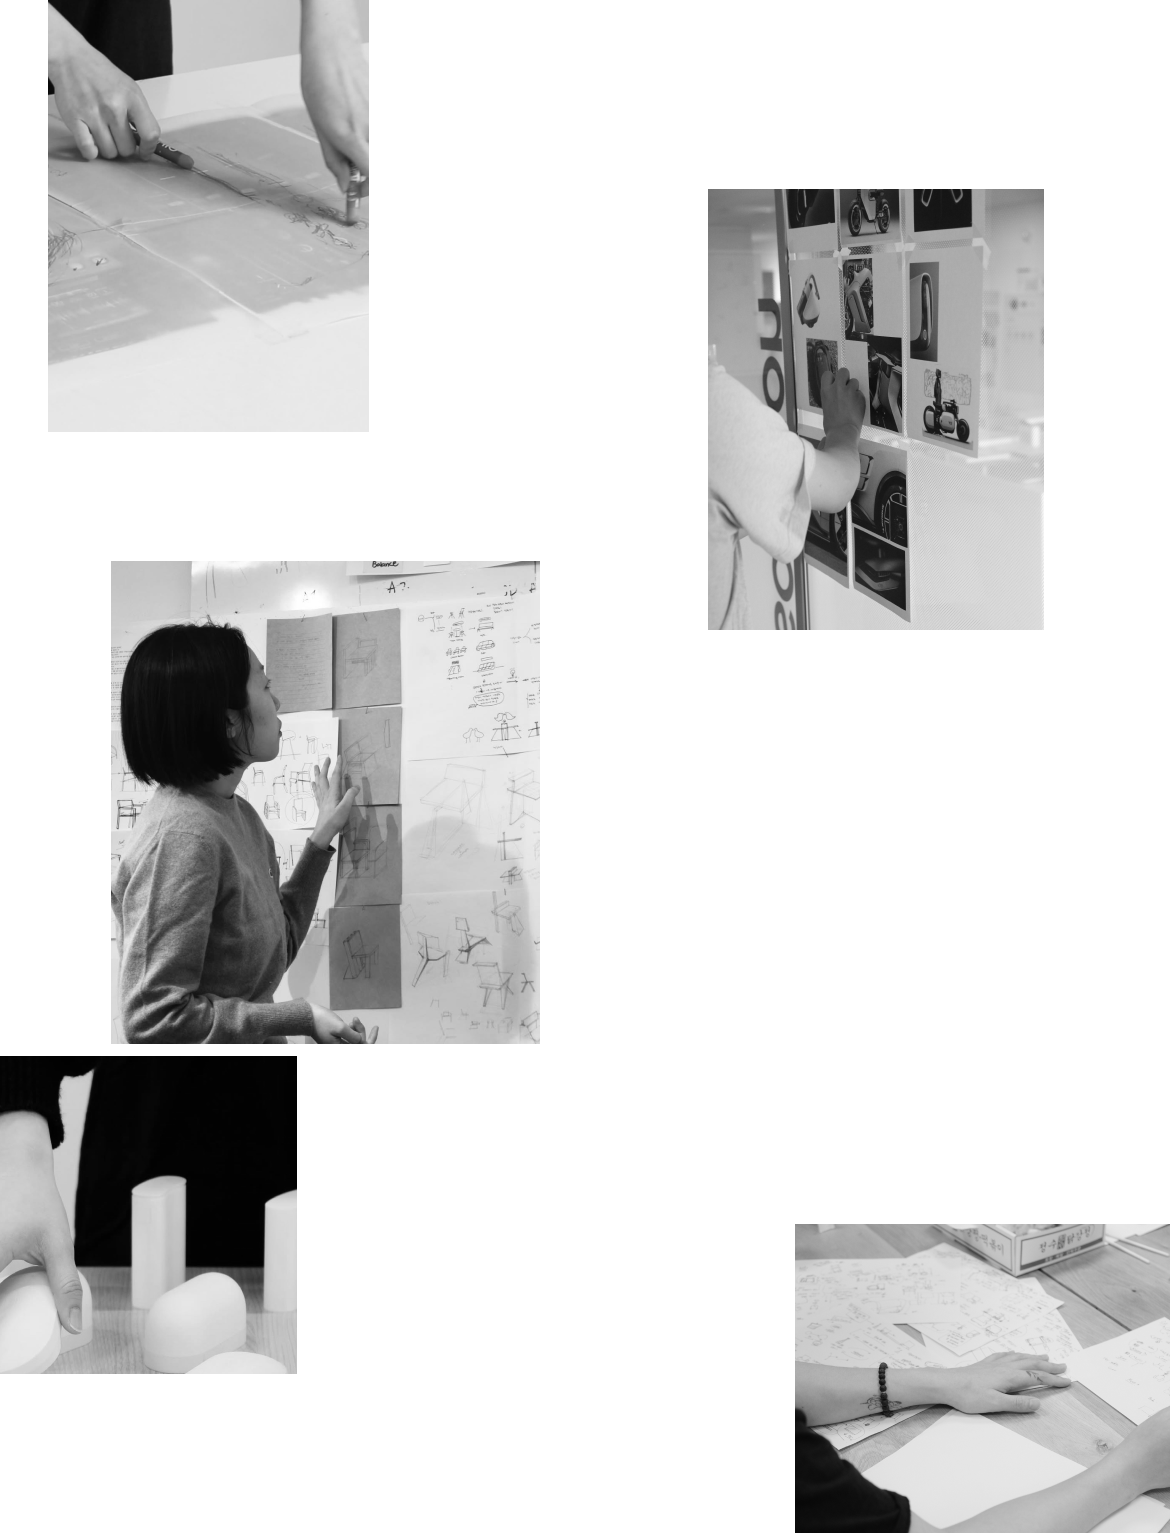
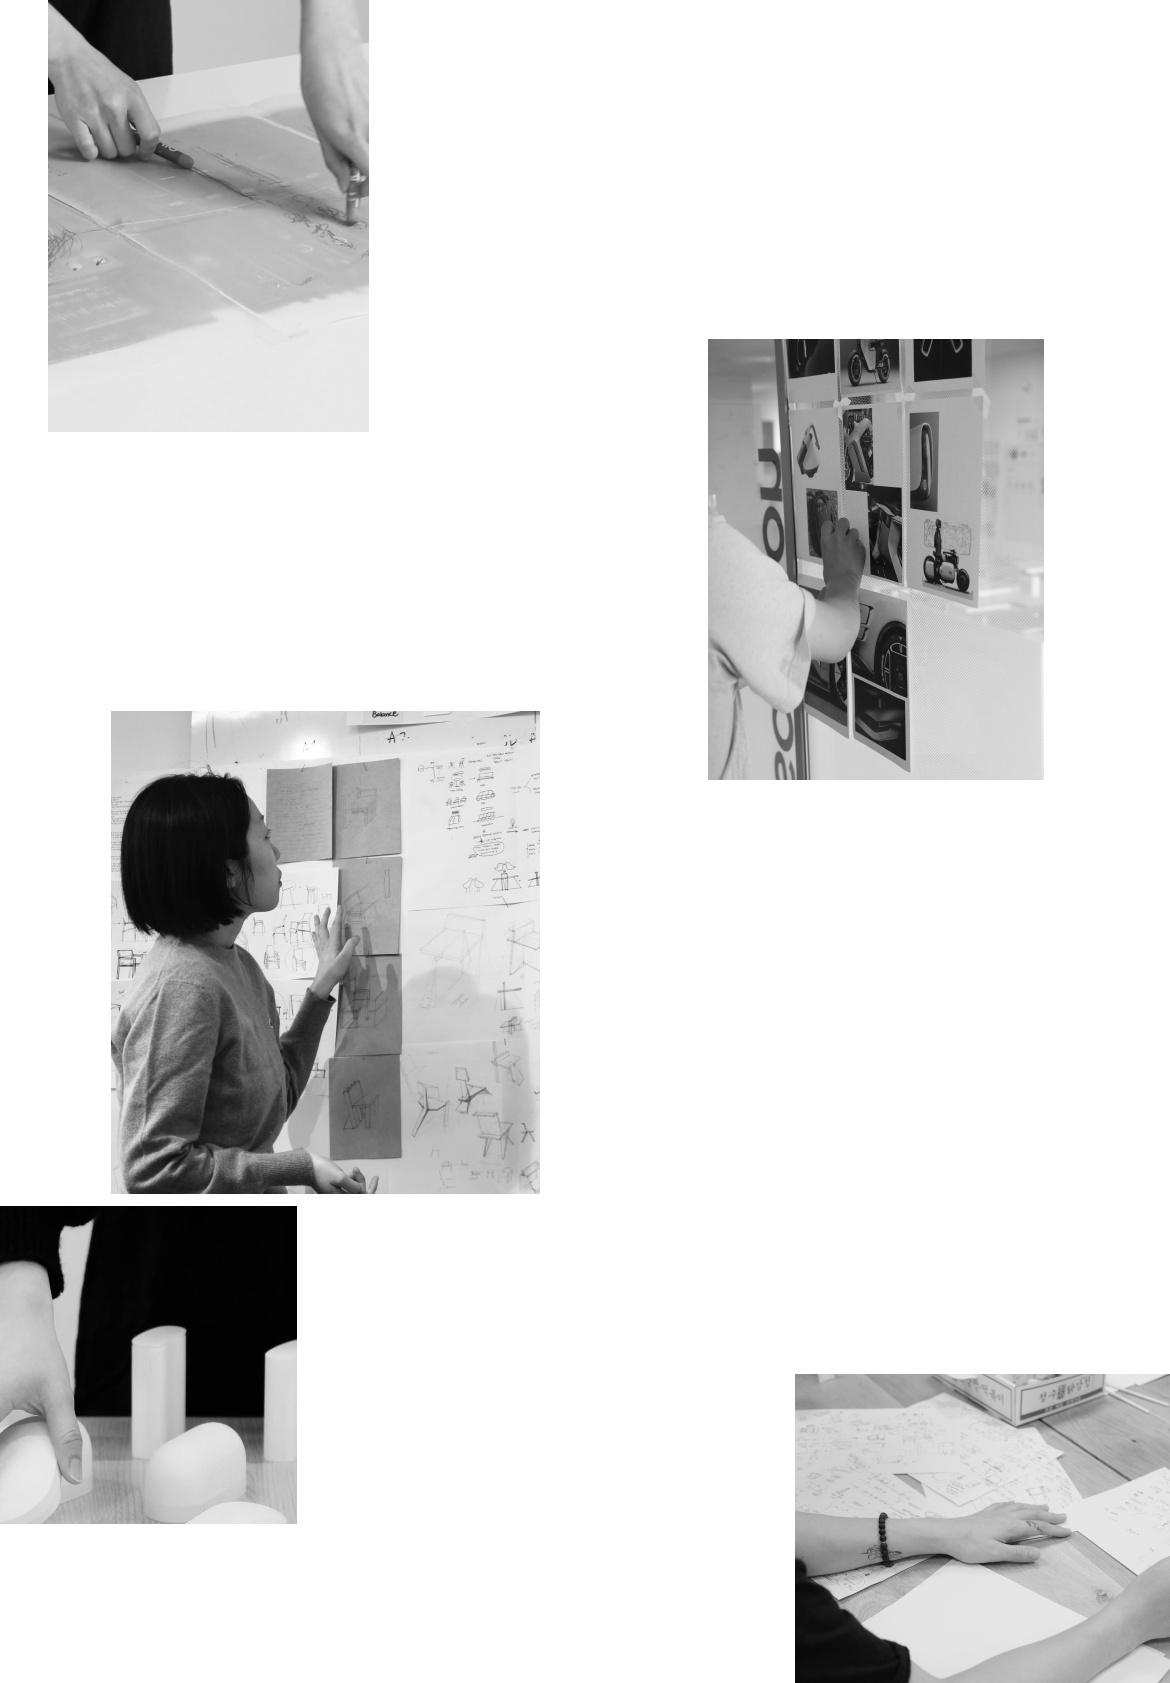
adjust distance of images

diff --git a/main/src/components/intro/ScrollOrchestrator.tsx b/main/src/components/intro/ScrollOrchestrator.tsx
@@ -37,7 +37,7 @@ function useStableVh() {
 }
 
 type Cut = { start: number; end: number }
-const WEIGHTS: number[] = [1, 1, 1, 1, 4.2, 2]
+const WEIGHTS: number[] = [1, 1, 1, 1, 2.2, 2]
 
 function makeCuts(weights: number[]): Cut[] {
   const total = weights.reduce((a, b) => a + b, 0)
@@ -271,11 +271,10 @@ export function ScrollOrchestrator() {
   )
 
   // ---------- Section 5 ----------
-  const planesLiftUp = useTransform(p4, [0, 1], [0, -3000])
+  const planesLiftUp = useTransform(p4, [0, 1], [0, -2500])
   const backYFinal = useTransform([backY, planesLiftUp], ([b, u]: [number, number]) => b + u)
   const midYFinal = useTransform([midY, planesLiftUp], ([m, u]: [number, number]) => m + u)
   const frontYFinal = useTransform([frontY, planesLiftUp], ([f, u]: [number, number]) => f + u)
-
   // ---------- Section 6 ----------
   const arrowOpacity = useTransform(p5, [0, 0.2], [1, 0], { ease: easeInOut, clamp: true })
   const MdtitleLift_p5 = isMdUp ? -128 : 0
@@ -462,7 +461,7 @@ export function ScrollOrchestrator() {
                   </svg>
                 </motion.div>
 
-                <div className='w-full aspect-[1440/1200]'>
+                <div className='h-full aspect-[1440/1200]'>
                   <motion.div initial={false} style={{ opacity: vimeoOpacity, willChange: 'opacity' }}>
                     <MediaContainer
                       type='video'
@@ -532,7 +531,7 @@ export function ScrollOrchestrator() {
                     p4={p4}
                     src={isMdPortrait ? '/images/intro/pc.png' : '/images/intro/mo.png'}
                     left='0'
-                    base={isMdPortrait? 200: 30}
+                    base={isMdPortrait? 200: 0}
                     width='100vw'
                     fade={[10, 10]}
                   />

diff --git a/main/src/components/about/AboutSection.tsx b/main/src/components/about/AboutSection.tsx
@@ -82,7 +82,7 @@ export default function AboutSection({ embedded = false }: Props) {
   const delayFor = (i: number, base = 400) => i * base
   return (
     <>
-      {/* <div className='relative w-full h-fit md:hidden lg:block'>
+      <div className='relative w-full h-fit md:hidden lg:block'>
         <Blank />
       </div>
       <div className='relative w-full aspect-[1440/1200] font-english font-semibold'>
@@ -104,7 +104,7 @@ export default function AboutSection({ embedded = false }: Props) {
           aspect='aspect-[1440/1200]'
           position='absolute'
         />
-      </div> */}
+      </div>
       <HeaderBody
         title={['What is New Formative?']}
         description={
